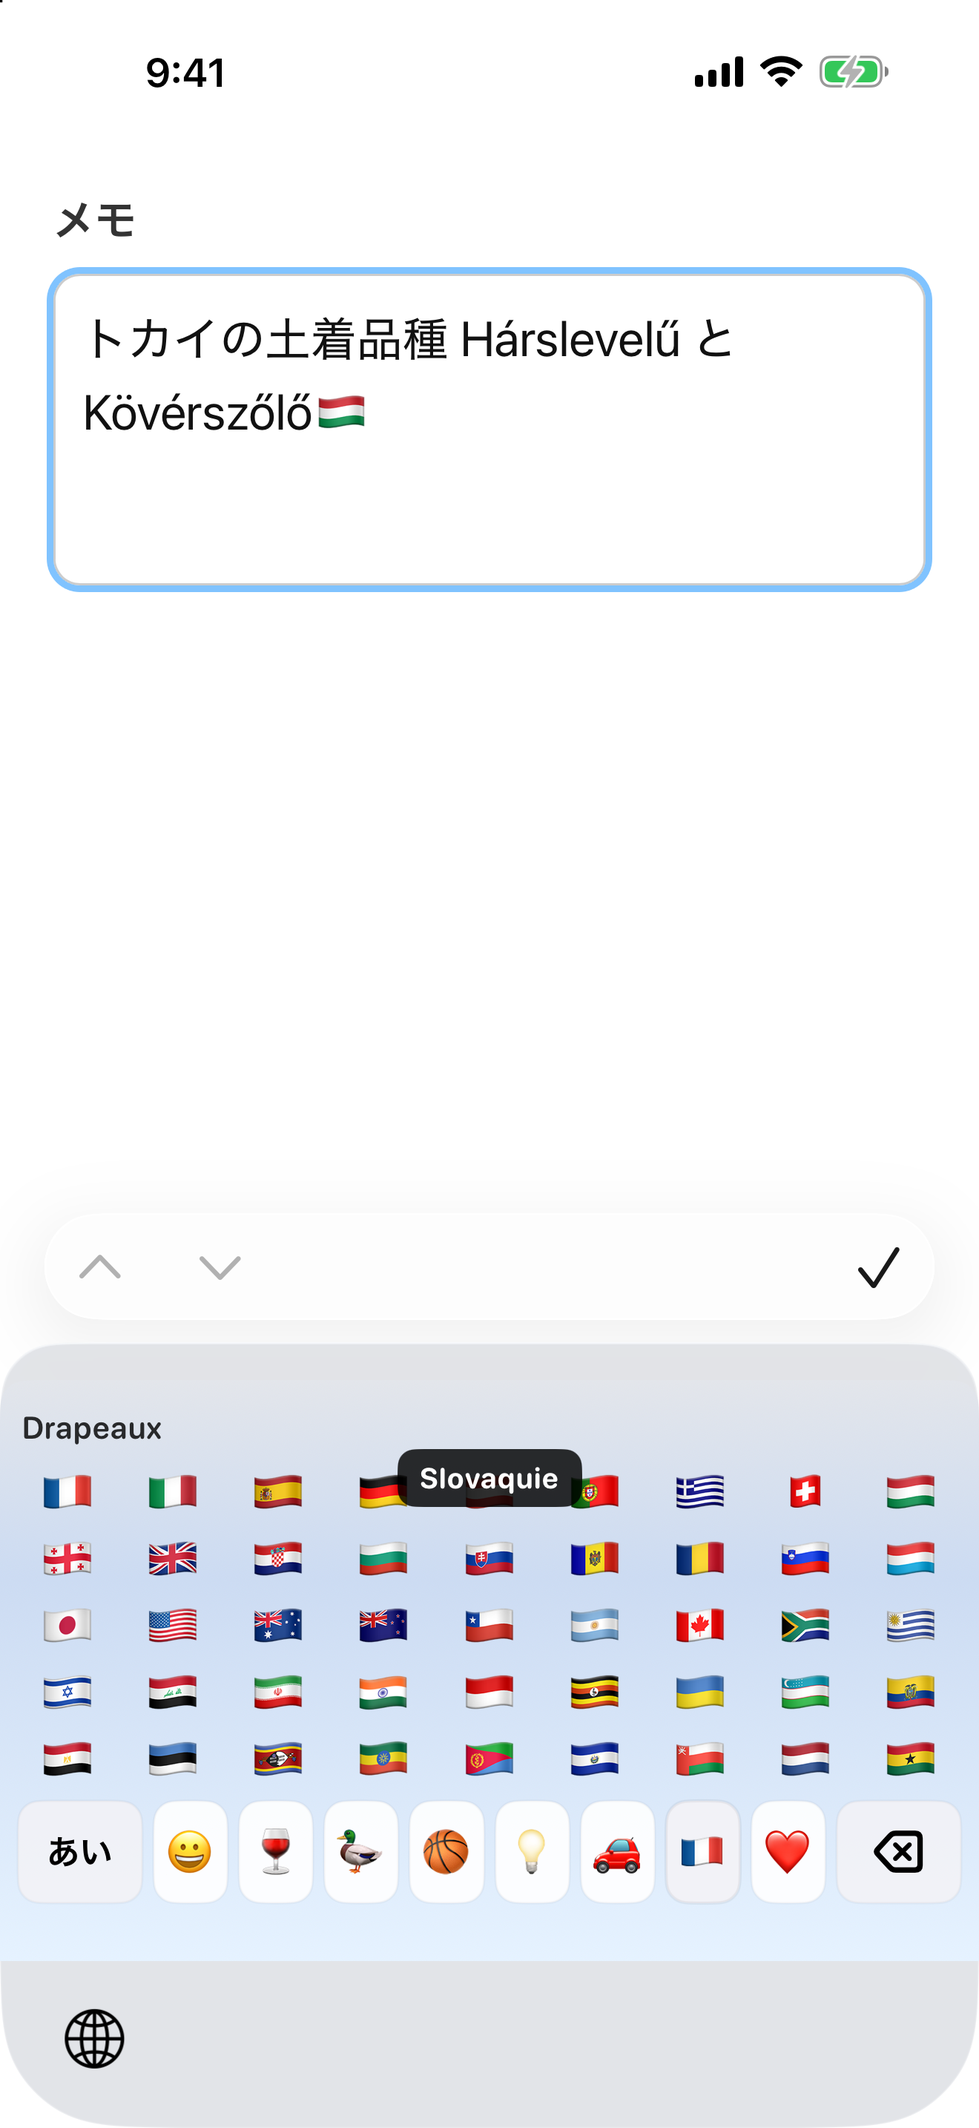
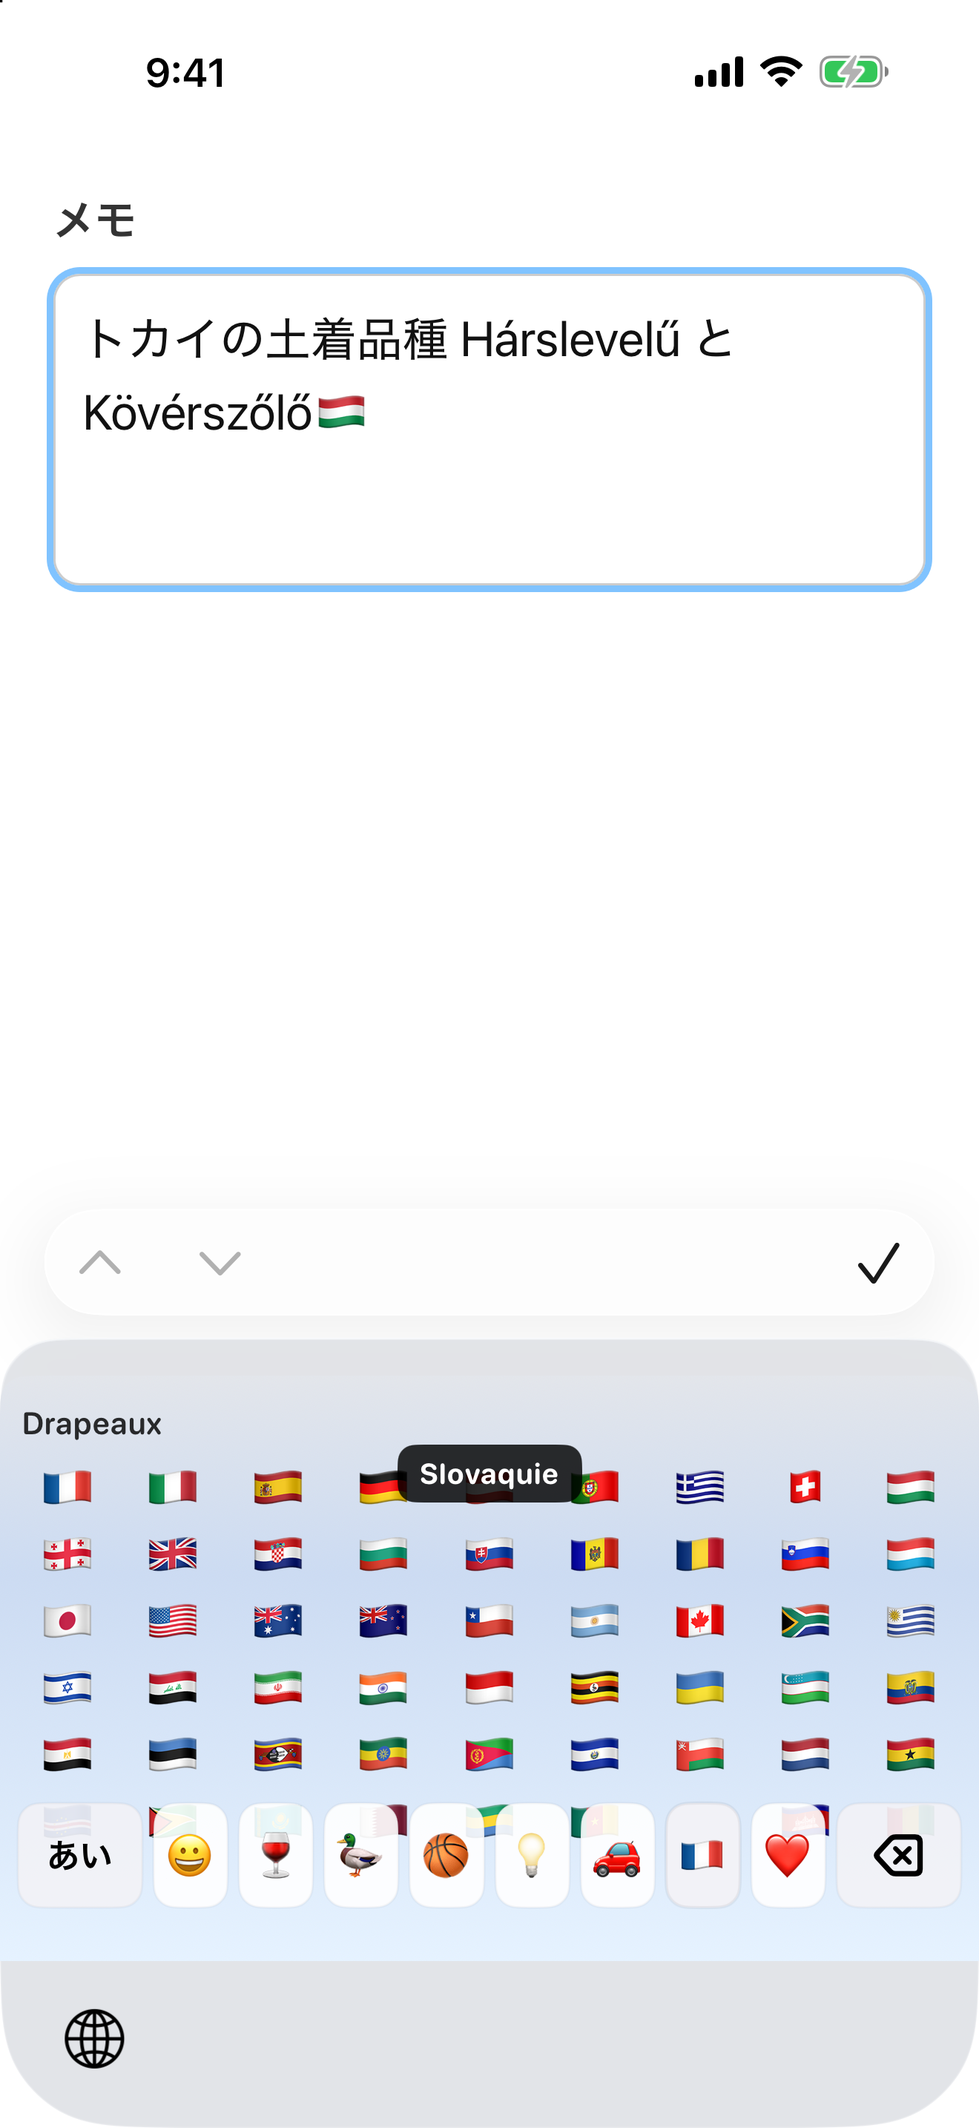
docs(appstore): スクリーンショット 01〜05 を今の高さ・候補欄で撮り直し、撮影の道具を残す
9/25 の 3216 で縦の高さを純正に揃え候補欄に未確定の行を常設したため、9/24 の take 5 とは
高さと候補欄が違っていた。構図・本文・設定は take 5 と同じ(06 は設定アプリなので据え置き)。
撮影用の一時フックを入れる apply-screenshot-hooks.py と 1 枚撮る shoot-screenshot.sh を appstore/ に残し、
各ショットの種を screenshots-plan.md に記録した(フック自体は従来どおりコミットしない)。
ストア掲載のプレビューも作り直した(掲載文の更新が未反映だった分も入る)。

diff --git a/docs/store-preview/index.html b/docs/store-preview/index.html
@@ -33,7 +33,7 @@
   </div>
   <div class="gallery"><figure><img src="01-kana.png" alt="かな入力と候補バー" width="1320" height="2868" loading="lazy"><figcaption>かな入力と候補バー</figcaption></figure><figure><img src="02-comma-flick.png" alt="や キーの 2 段フリック(sakura テーマ)" width="1320" height="2868" loading="lazy"><figcaption>や キーの 2 段フリック(sakura テーマ)</figcaption></figure><figure><img src="03-flags.png" alt="国旗の長押し" width="1320" height="2868" loading="lazy"><figcaption>国旗の長押し</figcaption></figure><figure><img src="04-kaomoji-search.png" alt="顔文字の読み検索" width="1320" height="2868" loading="lazy"><figcaption>顔文字の読み検索</figcaption></figure><figure><img src="05-number-unit.png" alt="書式化数値(単位)" width="1320" height="2868" loading="lazy"><figcaption>書式化数値(単位)</figcaption></figure><figure><img src="06-settings.png" alt="設定アプリ" width="1320" height="2868" loading="lazy"><figcaption>設定アプリ</figcaption></figure></div>
   <div class="promo">『?』『。』『〜』『…』括弧まで、かなのまま打てる日本語フリックキーボード。通信は一切なし — 入力内容が端末の外に出ることはありません。連文節変換、絵文字・顔文字・記号パネル、単位や日付の入力補助まで、1 つのキーボードで。</div>
-  <div class="desc"><p>écritu(エクリチュ)は、『同じことを毎回選ばされない』ことを第一に設計された iPhone 用の日本語フリック入力キーボードです。『?』を打つたびに『?』か『？』かを選ぶ、句読点や括弧を打つたびに候補から確定する、といった操作を無くしました。記号に未確定の状態はなく、打った瞬間にいつも同じ形でそのまま入るので、選ぶ場面そのものがありません。</p><h3>通信ゼロ。入力内容は端末の外に出ません</h3><p>écritu にはネットワーク通信を行なうコードそのものがありません。入力した文字、変換履歴、学習した語彙が開発者を含む誰かに送られることは、仕組みの上でありえません。解析SDK・広告SDKも不使用。フルアクセスの用途は、本体アプリとキーボードの間で設定と学習語彙を共有することだけです。</p><h3>さらに、よく使う記号はかな入力の画面で</h3><p>『?』『!』『。』『・』は読点キーのフリックに、『〜』『ー』はわキーに、括弧はやキーに置きました。よく使う記号のために記号モードへ入る回数も減ります。やキー・わキーは『2段フリック』に対応し、() や「」などの括弧、旧仮名の『ゐ』『ゑ』まで指を離さずに入力できます。</p><h3>賢い変換と、育つ辞書</h3><p>文節をまたいだ連文節変換に対応。確定した候補は端末内で学習され、使うほどあなたの言葉に馴染みます。単語の手動登録(追加語彙)、出したくない候補を隠す抑制語彙、定型文のショートカット語彙、iOS の連絡先やユーザ辞書との連携も。</p><h3>絵文字・顔文字・記号のパネル</h3><p>カテゴリー分けされた絵文字(国旗は長押しで国名をフランス語表示)、読みから探せる顔文字検索、通貨・単位・数学記号・矢印・囲み文字。漢字1字を部首から探せるピッカーも備えています。</p><h3>数字・単位・日付の入力補助</h3><p>数字モードでは 3,000 のような桁区切り、km や ℃ などの単位、金額、日付や曜日(カレンダー表示つき)まで、書式化された数値をそのまま入力できます。</p><h3>欧文もサジェスト</h3><p>フランス語・ドイツ語・イタリア語・英語の入力補完を搭載(オフライン辞書)。アクセント付き文字も長押しで。メールアドレスやURLの欄では自動的に英字配列で開きます。</p><h3>細かな設定</h3><p>かな配列(5×2 / 3×3+わ)、フリック方向(hanabi / littlebear / écritu)、英字配列(QWERTY / AZERTY / 3×3)、テーマとアクセントカラー、フリックガイドの表示方法など、細部まで好みに合わせられます。</p><p>操作方法の詳しい説明は、操作マニュアル(全9章。アプリのアイコンを長押ししたメニューから Safari で開けます)をご覧ください。</p></div>
+  <div class="desc"><p>écritu(エクリチュ)は、『同じことを毎回選ばされない』ことを第一に設計された iPhone 用の日本語フリック入力キーボードです。『?』を打つたびに『?』か『？』かを選ぶ、句読点や括弧を打つたびに候補から確定する、といった操作を無くしました。記号に未確定の状態はなく、打った瞬間にいつも同じ形でそのまま入るので、選ぶ場面そのものがありません。</p><h3>通信ゼロ。入力内容は端末の外に出ません</h3><p>écritu にはネットワーク通信を行なうコードそのものがありません。入力した文字、変換履歴、学習した語彙が開発者を含む誰かに送られることは、仕組みの上でありえません。解析SDK・広告SDKも不使用。フルアクセスの用途は、本体アプリとキーボードの間で設定と学習語彙を共有することだけです。</p><h3>さらに、よく使う記号はかな入力の画面で</h3><p>『?』『!』『。』『・』は読点キーのフリックに、『〜』『ー』はわキーに、括弧はやキーに置きました。よく使う記号のために記号モードへ入る回数も減ります。やキー・わキーは『2段フリック』に対応し、() や「」などの括弧、旧仮名の『ゐ』『ゑ』まで指を離さずに入力できます。</p><h3>賢い変換と、育つ辞書</h3><p>文節をまたいだ連文節変換に対応。確定した候補は端末内で学習され、使うほどあなたの言葉に馴染みます。単語の手動登録(追加語彙)、出したくない候補を隠す抑制語彙、定型文のショートカット語彙、iOS の連絡先やユーザ辞書との連携も。</p><h3>絵文字・顔文字・記号のパネル</h3><p>カテゴリー分けされた絵文字(国旗は長押しで国名をフランス語表示)、読みから探せる顔文字検索、通貨・単位・数学記号・矢印・囲み文字。漢字1字を部首や画数から探せる単漢字入力も備えています。</p><h3>数字・単位・日付の入力補助</h3><p>数字モードでは 3,000 のような桁区切り、km や ℃ などの単位、金額、日付や曜日(カレンダー表示つき)まで、書式化された数値をそのまま入力できます。</p><h3>欧文もサジェスト</h3><p>フランス語・ドイツ語・イタリア語・英語の入力補完を搭載(オフライン辞書)。アクセント付き文字も長押しで。メールアドレスやURLの欄では自動的に英字配列で開きます。</p><h3>細かな設定</h3><p>かな配列(5×2 / 3×3+わ)、フリック方向(hanabi / littlebear / écritu)、英字配列(QWERTY / AZERTY / 3×3)、テーマとアクセントカラー、フリックガイドの表示方法など、細部まで好みに合わせられます。</p><p>操作方法の詳しい説明は、操作マニュアル(全9章。アプリのアイコンを長押ししたメニューから Safari で開けます)をご覧ください。</p></div>
   <h3>キーワード(検索用・ストアには表示されません)</h3>
   <p class="meta">エクリチュ,日本語入力,フリック,かな,IME,連文節,変換,絵文字,顔文字,記号,オフライン,辞書,旧仮名,部首,単位,フランス語</p>
   <p class="meta">ご意見は TestFlight のフィードバック、または <a href="mailto:écritu@merope.pleiades.or.jp">écritu@merope.pleiades.or.jp</a> へ。</p>

diff --git a/appstore/apply-screenshot-hooks.py b/appstore/apply-screenshot-hooks.py
@@ -1,0 +1,255 @@
+#!/usr/bin/env python3
+# App Store スクリーンショット撮影用の一時フックを入れる(コミットしない。撮影後に git checkout -- KeyboardExtension/ で外す)。
+# 2026-09-24(take 5)の会話記録から復元し、2026-10-02(take 6)で使ったもの。appstore/screenshots-plan.md「無操作での撮影手順」の 3 節。
+# 使い方: python3 appstore/apply-screenshot-hooks.py → シミュレーター向けにビルド → appstore/shoot-screenshot.sh で撮影 → git checkout -- KeyboardExtension/
+import sys
+
+import os
+ROOT = os.path.join(os.path.dirname(os.path.abspath(__file__)), "..", "KeyboardExtension") + "/"
+
+
+def patch(name, pairs):
+    path = ROOT + name
+    s = open(path, encoding="utf-8").read()
+    for old, new in pairs:
+        count = s.count(old)
+        if count != 1:
+            sys.exit(f"{name}: anchor found {count} times:\n{old[:120]}")
+        s = s.replace(old, new)
+    open(path, "w", encoding="utf-8").write(s)
+    print("patched", name)
+
+
+def append(name, text):
+    path = ROOT + name
+    with open(path, "a", encoding="utf-8") as f:
+        f.write(text)
+    print("appended", name)
+
+
+# 1. 本文の挿入と読みの打鍵(viewDidAppear から呼ぶ)
+append("KeyboardViewController+Diagnostics.swift", '''
+
+// ★撮影用の一時フック(コミットしない。撮影後に git checkout で外す)
+extension KeyboardViewController {
+    nonisolated(unsafe) private static var lastScreenshotScriptRunAt: CFAbsoluteTime = 0
+
+    func runScreenshotScriptIfNeeded() {
+        #if DEBUG
+        guard let script = sharedDefaults?.string(forKey: "screenshotScript"),
+            !script.isEmpty,
+            CFAbsoluteTimeGetCurrent() - Self.lastScreenshotScriptRunAt > 20
+        else {
+            return
+        }
+        Self.lastScreenshotScriptRunAt = CFAbsoluteTimeGetCurrent()
+        DispatchQueue.main.asyncAfter(deadline: .now() + 1.5) { [weak self] in
+            guard let self else { return }
+            for _ in 0..<80 { self.textDocumentProxy.deleteBackward() }
+            DispatchQueue.main.asyncAfter(deadline: .now() + 0.4) { [weak self] in
+                self?.performScreenshotScript(script)
+            }
+        }
+        #endif
+    }
+
+    private func performScreenshotScript(_ script: String) {
+        switch script {
+        case "01":
+            textDocumentProxy.insertText("トカイの土着品種 Hárslevelű と ")
+            typeScreenshotReading("くゔぇーるすーるー")
+        case "02":
+            textDocumentProxy.insertText("トカイの土着品種 Hárslevelű と Kövérszőlő")
+        case "03":
+            textDocumentProxy.insertText("トカイの土着品種 Hárslevelű と Kövérszőlő🇭🇺")
+        case "04":
+            textDocumentProxy.insertText("トカイの土着品種 Hárslevelű と Kövérszőlő🇭🇺🇸🇰")
+        case "05":
+            textDocumentProxy.insertText("フランスの年間のワイン生産量は、フランス農務省の2025年11月1日時点予測値で約")
+        default:
+            break
+        }
+    }
+
+    private func typeScreenshotReading(_ reading: String) {
+        var delay = 0.0
+        for character in reading {
+            delay += 0.12
+            DispatchQueue.main.asyncAfter(deadline: .now() + delay) { [weak self] in
+                self?.handleTextInput(String(character))
+            }
+        }
+    }
+}
+''')
+patch("KeyboardViewController.swift", [(
+    "        commitStaleHostMarkedTextOnAppear()\n",
+    "        commitStaleHostMarkedTextOnAppear()\n        runScreenshotScriptIfNeeded()\n",
+)])
+
+# 2. 面の状態の種
+append("KeyboardRootView.swift", '''
+
+// ★撮影用の一時フック(コミットしない。撮影後に git checkout で外す)
+enum ScreenshotSeed {
+    static let defaults = UserDefaults(suiteName: KeyboardViewController.SharedDefaultsKeys.appGroupID)
+
+    static func string(_ key: String) -> String? {
+        guard let value = defaults?.string(forKey: "screenshot_" + key), !value.isEmpty else {
+            return nil
+        }
+        return value
+    }
+
+    static var inputMode: KeyboardInputMode? {
+        switch string("inputMode") {
+        case "emoji": return .emoji
+        case "formattedNumber": return .formattedNumber
+        case "number": return .number
+        case "latin": return .latin
+        case "kana": return .kana
+        default: return nil
+        }
+    }
+
+    static var emojiSubmode: EmojiInputSubmode? {
+        switch string("emojiSubmode") {
+        case "emoji": return .emoji
+        case "kaomoji": return .kaomoji
+        case "symbols": return .symbols
+        case "kanjiRadical": return .kanjiRadical
+        default: return nil
+        }
+    }
+}
+''')
+patch("KeyboardRootView.swift", [
+    ('@State var selectedKaomojiCategoryID = "existing"',
+     '@State var selectedKaomojiCategoryID = ScreenshotSeed.string("kaomojiCategory") ?? "existing"'),
+    ('@State var selectedKaomojiReading: String? = nil',
+     '@State var selectedKaomojiReading: String? = ScreenshotSeed.string("kaomojiReading")'),
+    ('@State var selectedKaomojiReadingPrefix: String? = nil',
+     '@State var selectedKaomojiReadingPrefix: String? = ScreenshotSeed.string("kaomojiPrefix")'),
+    ('@State var formattedNumberBuffer: String = ""',
+     '@State var formattedNumberBuffer: String = ScreenshotSeed.string("numberBuffer") ?? ""'),
+    ('@State var selectedEmojiCategory: EmojiCategory = .people',
+     '@State var selectedEmojiCategory: EmojiCategory = (ScreenshotSeed.string("emojiCategory") == "flags" ? .flags : .people)'),
+    ("""        .onAppear {
+            if inputMode != initialInputMode {
+                inputMode = initialInputMode
+            }""",
+     """        .onAppear {
+            if let seededMode = ScreenshotSeed.inputMode {
+                inputMode = seededMode
+                if let seededSubmode = ScreenshotSeed.emojiSubmode {
+                    emojiInputSubmode = seededSubmode
+                }
+            } else if inputMode != initialInputMode {
+                inputMode = initialInputMode
+            }"""),
+    # でばぐ可視化(削除キーの注記)を写さない
+    ("    static let memoryPressureVisualizationEnabled = true",
+     "    static let memoryPressureVisualizationEnabled = false  // ★撮影用の一時変更(コミットしない)"),
+])
+
+# 3. 顔文字検索の読み行を種の見出しまでスクロール
+patch("KeyboardRootView+EmojiKaomojiLayouts.swift", [(
+    '''                            ScrollView(.horizontal, showsIndicators: false) {
+                                HStack(spacing: 8) {
+                                    kaomojiSearchPrefixButton(
+                                        title: "全",
+                                        isSelected: selectedKaomojiReadingPrefix == nil,
+                                        action: { selectKaomojiReadingPrefix(nil) }
+                                    )
+
+                                    ForEach(KaomojiCatalog.readingIndexHeadings, id: \\.self) { heading in
+                                        kaomojiSearchPrefixButton(
+                                            title: heading,
+                                            isSelected: selectedKaomojiReadingPrefix == heading,
+                                            action: { selectKaomojiReadingPrefix(heading) }
+                                        )
+                                    }
+                                }
+                            }''',
+    '''                            ScrollViewReader { screenshotProxy in
+                            ScrollView(.horizontal, showsIndicators: false) {
+                                HStack(spacing: 8) {
+                                    kaomojiSearchPrefixButton(
+                                        title: "全",
+                                        isSelected: selectedKaomojiReadingPrefix == nil,
+                                        action: { selectKaomojiReadingPrefix(nil) }
+                                    )
+
+                                    ForEach(KaomojiCatalog.readingIndexHeadings, id: \\.self) { heading in
+                                        kaomojiSearchPrefixButton(
+                                            title: heading,
+                                            isSelected: selectedKaomojiReadingPrefix == heading,
+                                            action: { selectKaomojiReadingPrefix(heading) }
+                                        )
+                                        .id(heading)
+                                    }
+                                }
+                            }
+                            .onAppear {
+                                // ★撮影用の一時フック(コミットしない)
+                                if let seeded = ScreenshotSeed.string("kaomojiPrefix") {
+                                    DispatchQueue.main.asyncAfter(deadline: .now() + 0.6) {
+                                        screenshotProxy.scrollTo(seeded, anchor: .trailing)
+                                    }
+                                }
+                            }
+                            }''',
+)])
+
+# 4. 国旗の国名吹き出しを出したままにする
+path = ROOT + "KeyboardKeyComponents.swift"
+s = open(path, encoding="utf-8").read()
+anchor = "view.register(EmojiGridCell.self, forCellWithReuseIdentifier: EmojiGridCell.reuseIdentifier)"
+i = s.index(anchor)
+a = '''        view.dataSource = context.coordinator
+        view.delegate = context.coordinator
+        context.coordinator.parent = self
+        return view
+    }'''
+j = s.index(a, i)
+b = '''        view.dataSource = context.coordinator
+        view.delegate = context.coordinator
+        context.coordinator.parent = self
+        // ★撮影用の一時フック(コミットしない): 指定した絵文字の吹き出しを出したままにする
+        if let target = ScreenshotSeed.string("emojiBubble") {
+            let screenshotCoordinator = context.coordinator
+            DispatchQueue.main.asyncAfter(deadline: .now() + 1.8) { [weak view] in
+                guard let view else { return }
+                for (sectionIndex, section) in screenshotCoordinator.parent.sections.enumerated() {
+                    guard let item = section.emojis.firstIndex(of: target) else { continue }
+                    let indexPath = IndexPath(item: item, section: sectionIndex)
+                    view.layoutIfNeeded()
+                    screenshotCoordinator.collectionView(view, didHighlightItemAt: indexPath)
+                    return
+                }
+            }
+        }
+        return view
+    }'''
+s = s[:j] + b + s[j + len(a):]
+open(path, "w", encoding="utf-8").write(s)
+print("patched KeyboardKeyComponents.swift")
+
+# 5. 2 段階フリックの吹き出しを出したままにする
+patch("FlickKeyView.swift", [(
+    """        .contentShape(Rectangle())
+        .gesture(flickGesture)""",
+    """        .contentShape(Rectangle())
+        .gesture(flickGesture)
+        // ★撮影用の一時フック(コミットしない): 指定キーの2段階フリックを出したままにする
+        .onAppear {
+            if let target = ScreenshotSeed.string("flickKey"), kana.center == target {
+                DispatchQueue.main.asyncAfter(deadline: .now() + 2.2) {
+                    isTouching = true
+                    secondaryFlickPrimaryDirection = .gauche
+                    secondaryFlickVerticalDirection = .haut
+                }
+            }
+        }""",
+)])
+print("all hooks applied")
